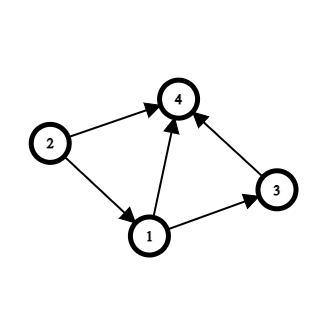
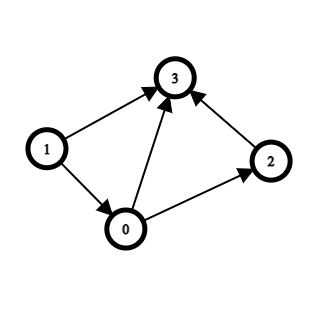
Implement Adjacency List and Adjacency Matrix

diff --git a/Introduction to Graphs/blog.md b/Introduction to Graphs/blog.md
@@ -25,12 +25,12 @@ More concretely, graphs can be represented in code using an adjacency matrix and
 
 For example, the above graph would be represented as below:
 
-|       | **1** | **2** | **3** | **4** |
+|       | **0** | **1** | **2** | **3** |
 |-------|-------|-------|-------|-------|
-| **1** | 0     | 0     | 1     | 1     |
-| **2** | 1     | 0     | 0     | 1     |
-| **3** | 0     | 0     | 0     | 1     |
-| **4** | 0     | 0     | 0     | 0     |
+| **0** | 0     | 0     | 1     | 1     |
+| **1** | 1     | 0     | 0     | 1     |
+| **2** | 0     | 0     | 0     | 1     |
+| **3** | 0     | 0     | 0     | 0     |
 
 Adjacency matrices require $O(N^2)$ memory which can sometimes be impractical. Thus, unless graphs are dense and require $O(N^2)$ memory regardless, they are usually represented by adjacency lists instead. 
 
@@ -40,10 +40,10 @@ Adjacency matrices require $O(N^2)$ memory which can sometimes be impractical. T
 
 | _Node_ | _Outward Edges_ |
 |--------|-----------------|
-| **1**  | 3, 4            |
-| **2**  | 1, 4            |
-| **3**  | 4               |
-| **4**  |                 |
+| **0**  | 2, 3            |
+| **1**  | 0, 3            |
+| **2**  | 3               |
+| **3**  |                 |
 
 Adjacency lists require $O(E)$ memory. However, a downside is that querying edge information in a vanilla adjacency list requires $O(N)$, as worst case scenario you have to search through all of a node's edges until you find the one you are looking for. 
 
@@ -52,22 +52,8 @@ Adjacency lists require $O(E)$ memory. However, a downside is that querying edge
 
 For practice, we suggest that readers implement the two different data structures for storing graphs. 
 
-More formally, please write a function which initializes the data structure. Then, please implement the appropriate operations to represent the above graph with the data-structure. 
+More formally, please write a function which initializes each data structure. Then, please implement the appropriate operations to represent the above graph with the data-structure. 
 1. Adjacency Matrix
-
-<details>
-<summary>Click here for the solution: </summary>
-
-Java:
-```
-```
-
-Python:
-```
-```
-
-</details>
-
 2. Adjacency List
 
 <details>
@@ -75,10 +61,223 @@ Python:
 
 Java:
 ```
+import java.io.*;
+import java.util.*;
+
+class AdjacencyMatrix{
+    // An Adjacency Matrix for storing directed, unweighted graphs
+    int n;
+    boolean[][] arr;
+
+    public AdjacencyMatrix(int numberNodes){
+        // Creates a new instance for n nodes, indexed 0
+        this.arr = new boolean[numberNodes][numberNodes];
+        this.n = numberNodes;
+    }
+
+    public boolean getEdge(int u, int v){
+        // Gets the edge between nodes u and v, if possible
+        assert(u>=0 && u<this.n && v>=0 && v<this.n);
+
+        return this.arr[u][v];
+    }
+
+    public void addEdge(int u, int v){
+        // Adds an edge between nodes u and v, if possible
+        assert(u>=0 && u<this.n && v>=0 && v<this.n);
+
+        this.arr[u][v] = true;
+    }
+
+    public void removeEdge(int u, int v){
+        // Removes the edge between nodes u and v, if possible
+        assert(u>=0 && u<this.n && v>=0 && v<this.n);
+
+        this.arr[u][v] = false;
+    }
+
+    public void printGraph(){
+        // Prints graph, if possible
+        assert(this.arr != null);
+
+        for(int i = 0; i<this.arr.length; ++i){
+            System.out.println(Arrays.toString(this.arr[i]));
+        }
+    }
+}
+
+class AdjacencyList{
+    // An Adjacency List for storing directed, unweighted graphs
+    int n;
+    ArrayList<Integer>[] lst;
+
+    public AdjacencyList(int numberNodes){
+        // Creates a new instance for n nodes, indexed 0
+        this.lst = new ArrayList[numberNodes];
+        for(int i = 0; i<numberNodes; ++i){
+            this.lst[i] = new ArrayList<Integer>();
+        }
+        this.n = numberNodes;
+    }
+
+    public boolean getEdge(int u, int v){
+        // Gets the edge between nodes u and v, if possible
+        assert(u>=0 && u<this.n && v>=0 && v<this.n);
+
+        return this.lst[u].contains(v);
+    }
+
+    public void addEdge(int u, int v){
+        // Adds an edge between nodes u and v, if possible
+        assert(u>=0 && u<this.n && v>=0 && v<this.n);
+
+        this.lst[u].add(v);
+    }
+
+    public void removeEdge(int u, int v){
+        // Removes the edge between nodes u and v, if possible
+        assert(u>=0 && u<this.n && v>=0 && v<this.n);
+
+        this.lst[u].remove(Integer.valueOf(v));
+    }
+
+    public void printGraph(){
+        // Prints graph, if possible
+        for(int i = 0; i<this.n; ++i){
+            assert(this.lst[i] != null);
+            System.out.println(Integer.toString(i) + ": " + this.lst[i].toString());
+        }
+    }
+}
+
+public class IntroductionToGraphs {
+    public static void main(String[] args) throws IOException{
+        // Initialize Adjacency Matrix
+        AdjacencyMatrix graphMat = new AdjacencyMatrix(4);
+
+        // Add Edges
+        graphMat.addEdge(0, 2);
+        graphMat.addEdge(0, 3);
+        graphMat.addEdge(1, 0);
+        graphMat.addEdge(1, 3);
+        graphMat.addEdge(2, 3);
+
+        // Print Final Graph
+        graphMat.printGraph();
+
+        // Initialize Adjacency Matrix
+        AdjacencyList graphList = new AdjacencyList(4);
+
+        // Add Edges
+        graphList.addEdge(0, 2);
+        graphList.addEdge(0, 3);
+        graphList.addEdge(1, 0);
+        graphList.addEdge(1, 3);
+        graphList.addEdge(2, 3);
+
+        // Print Final Graph
+        graphList.printGraph();
+    }
+}
 ```
 
 Python:
 ```
+class AdjacencyMatrix:
+    # An Adjacency Matrix for storing directed, unweighted graphs
+    n = 0
+    arr = None
+
+    def __init__(self, numberNodes):
+        # Creates a new instance for n nodes, indexed 0
+        self.arr = [[False]*numberNodes for i in range(numberNodes)]
+        self.n = numberNodes
+
+    def getEdge(self, u, v):
+        # Gets the edge between nodes u and v, if possible
+        assert(u>=0 and u<self.n and v>=0 and v<self.n)
+
+        return self.arr[u][v]
+
+    def addEdge(self, u, v):
+        # Adds an edge between nodes u and v, if possible
+        assert(u>=0 and u<self.n and v>=0 and v<self.n)
+
+        self.arr[u][v] = True
+
+    def removeEdge(self, u, v):
+        # Removes the edge between nodes u and v, if possible
+        assert(u>=0 and u<self.n and v>=0 and v<self.n)
+
+        self.arr[u][v] = False
+
+    def printGraph(self):
+        # Prints graph, if possible
+        assert(self.arr != None)
+
+        for i in range(self.n):
+            print(self.arr[i])
+
+class AdjacencyList:
+    # An Adjacency List for storing directed, unweighted graphs
+    n = 0
+    lst = None
+
+    def __init__(self, numberNodes):
+        # Creates a new instance for n nodes, indexed 0
+        self.lst = [[] for i in range(numberNodes)]
+        self.n = numberNodes
+
+    def getEdge(self, u, v):
+        # Gets the edge between nodes u and v, if possible
+        assert(u>=0 and u<self.n and v>=0 and v<self.n)
+
+        return v in self.lst[u]
+
+    def addEdge(self, u, v):
+        # Adds an edge between nodes u and v, if possible
+        assert(u>=0 and u<self.n and v>=0 and v<self.n)
+
+        self.lst[u].append(v)
+
+    def removeEdge(self, u, v):
+        # Removes the edge between nodes u and v, if possible
+        assert(u>=0 and u<self.n and v>=0 and v<self.n)
+
+        self.lst[u].remove(v)
+
+    def printGraph(self):
+        # Prints graph, if possible
+        for i in range(self.n):
+            assert(self.lst[i] != None)
+            print(i,  ":", self.lst[i])
+
+# Initialize Adjacency Matrix
+graphMat = AdjacencyMatrix(4)
+
+# Add Edges
+graphMat.addEdge(0, 2)
+graphMat.addEdge(0, 3)
+graphMat.addEdge(1, 0)
+graphMat.addEdge(1, 3)
+graphMat.addEdge(2, 3)
+
+# Print Final Graph
+graphMat.printGraph()
+
+# Initialize Adjacency Matrix
+graphList = AdjacencyList(4)
+
+# Add Edges
+graphList.addEdge(0, 2)
+graphList.addEdge(0, 3)
+graphList.addEdge(1, 0)
+graphList.addEdge(1, 3)
+graphList.addEdge(2, 3)
+
+# Print Final Graph
+graphList.printGraph()
+
 ```
 
 </details>
